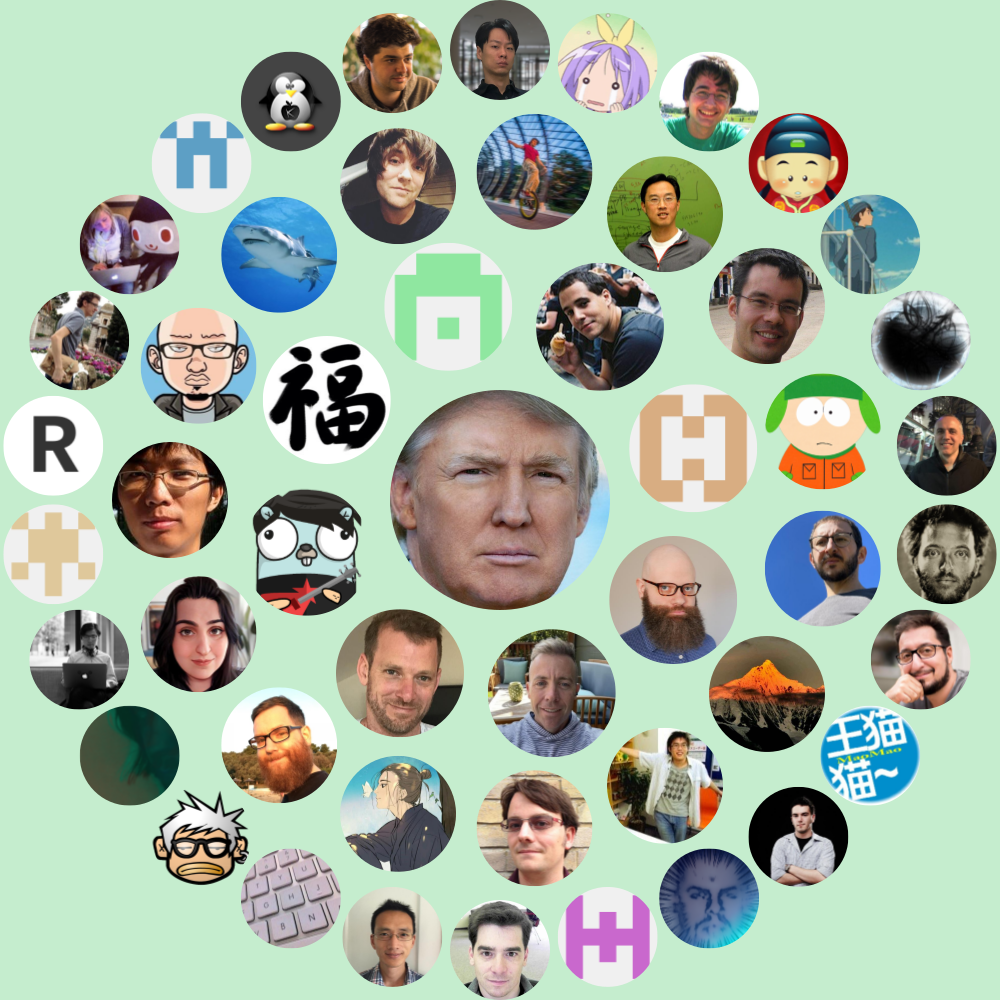
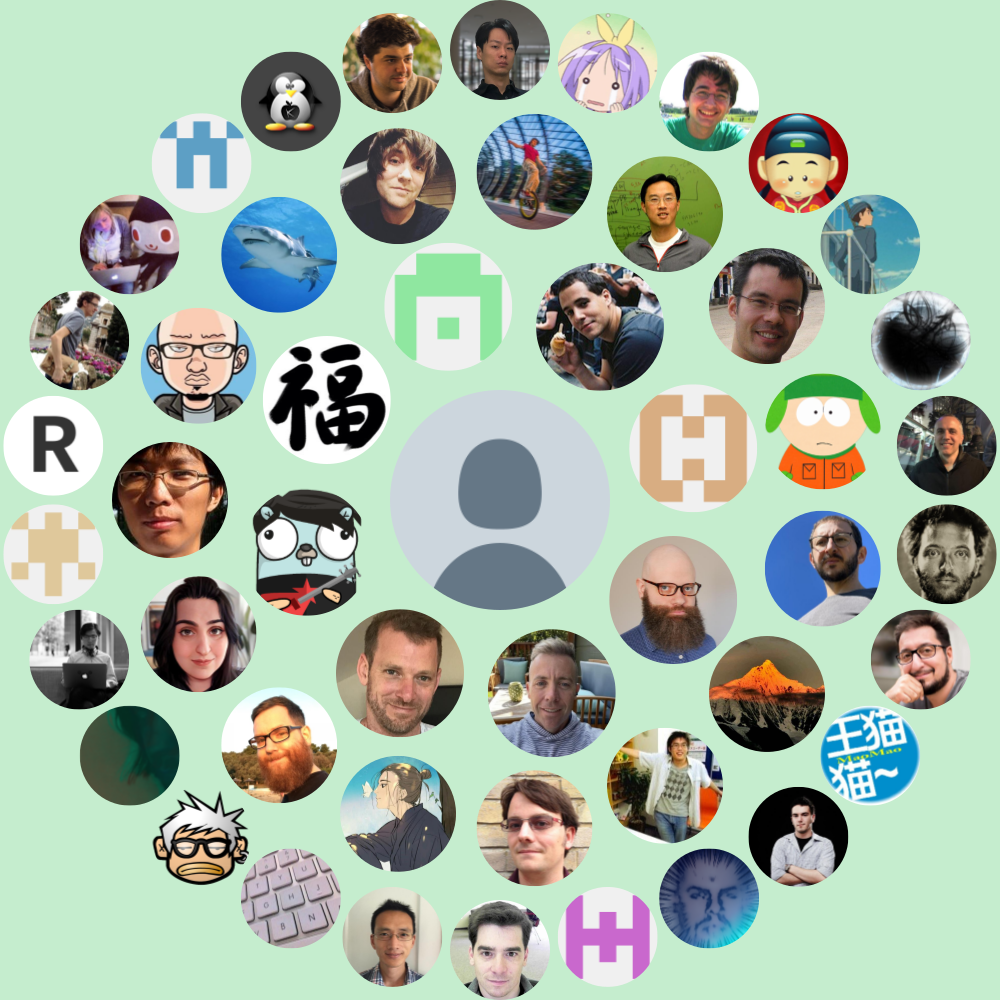
hello

Changed region(s): [[0.372, 0.372, 0.62, 0.62]]

diff --git a/src/index.js b/src/index.js
@@ -46,7 +46,7 @@ function splitArray(input, groupSizes) {
 }
 
 async function main() {
-	const user = await getQueryResults('SELECT avatar_url as avatar, login as screen_name FROM curr_user limit 1');
+	const user = await getQueryResults('SELECT u.avatar_url as avatar, u.login as screen_name FROM users u join curr_user on curr_user.id = u.id limit 1');
 
 	// this is how many users we will have for each layer from the inside out
 	const layers = [8, 15, 26];
